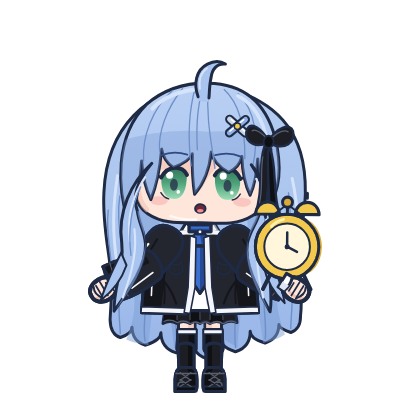
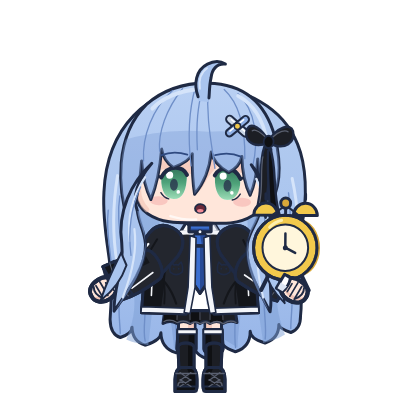
art: cập nhật trạng thái phòng Đợt 2, đề xuất cho điều hành (đặt note vào giữa tay), dựng lại ring
Claude-Session: https://claude.ai/code/session_01FvidWoeLaFPFz5tGxdbyt5

Changed region(s): [[0.57, 0.48, 0.81, 0.78]]

diff --git a/docs/rooms/art.md b/docs/rooms/art.md
@@ -23,7 +23,32 @@ Tóc dài màu xanh da trời nhạt có ánh, sợi tóc dựng trên đỉnh, 
 - `art/HANDOFF.md`: hướng dẫn họa sĩ người thật vẽ lại từng lớp đúng kích thước/pivot để thay thế.
 
 ## Trạng thái
-_(phòng cập nhật cuối mỗi lượt)_ — chưa bắt đầu.
+_Cập nhật 2026-10-15, hết lượt Đợt 2._
+
+**Đã xong**
+- Rig rối giấy vector: `art/rig/mochi/RIG-SPEC.md` (hệ toạ độ 400×400, mốc giải phẫu, màu, 19 xương, 24 lớp, khe đồ), `rig.json`, bộ phận `art/rig/mochi/parts/` (đầu, tóc sau/mái/mai/ahoge, kẹp X, nơ, thân, cổ, váy, tay 2 đốt + 5 kiểu bàn tay, chân 2 đốt + bốt, biến thể `hair_back.sit`), **26 bộ mặt** (18 khoá bảng gốc + blink, closed_happy, sleep, shout, wince, o, yawn, talk; mỗi khoá `.svg` + `.over.svg`), đạo cụ (chuông, mèo bông) và 17 hiệu ứng.
+- Trình dựng `tools/rig/` (chỉ Node + Electron offscreen có sẵn, không thêm thư viện): `build.js`, `pose.js`, `faces.js`, `sheet.js`, `svg2png.js`; action keyframe `tools/rig/actions/*.js` (inherit, tween, $ref mood). README đầy đủ.
+- Gói `assets/pet/mochi` (thay gói tạm 288×344): 10 action Đợt 2 — idle (normal/happy/tired/sad), walk (normal/tired), lifted, fall, land, pat_head (normal/happy), sleep, hold_note, ring, happy — 110 khung + 18 ảnh `faces/` 256×256. `validate.js`: OK, chỉ cảnh báo thiếu 13 action Đợt 3 (engine rơi về idle).
+- Duyệt: đầu/tóc 4 vòng, thân 2 vòng, mặt 1 vòng + tổng duyệt, walk/land/sleep/pat_head/ring 2 vòng, các action khác trưởng phòng duyệt từng khung ở 400px.
+- Chạy app thật dưới xvfb: gói tải OK, không lỗi console; ảnh `art/review/app_0*.png`.
+- `art/HANDOFF.md`: hướng dẫn họa sĩ người thật vẽ lại từng lớp (pivot, z, vùng bao, biến thể, cách nhúng PNG vào SVG).
+
+**Ảnh so sánh** (`art/review/`): `compare_full.png`, `compare_faces_18.png`, `compare_face_closeup.png`, `faces.png`, `contact_<action>.png` (10 action), `round*_head|body|faces|props.png` (các vòng sửa), `app_*.png`; ảnh tham chiếu cắt từ bảng gốc ở `art/review/ref/`.
+
+**Cách dựng lại**: `npm install` → `node tools/rig/build.js --faces` (≈3 giây, tự gọi xvfb-run nếu không có DISPLAY) → `node tools/anim/validate.js assets/pet/mochi` → `node tools/rig/sheet.js --contact <action>`. Xem nhanh tư thế: `node tools/rig/pose.js --out x.png --face happy --scale 2 --bg white`.
+
+**Đang dở / còn yếu**
+- Nhân vật nhìn chính diện (rig 2D): walk là bước tại chỗ nghiêng người, chưa có góc 3/4; tóc là mảng cứng xoay/co.
+- Tóc còn đối xứng hơn bảng gốc, thiếu lọn bay; áo khoác đen ít tương phản chi tiết (túi, khoá); huy hiệu mèo nhỏ.
+- fall: tay giơ ±120° (giơ cao hơn thì khuất sau tóc); chưa có `hair_back.up` (tóc hất lên) và cổ áo bị kéo ở lifted.
+- Gói PNG RGBA ≈12 MB (128 ảnh) — có thể nén bảng màu sau.
+- `hand_*.point`, `fx/question` chưa dùng.
+
+**Việc tiếp theo (Đợt 3)**: 13 action còn lại (sit, pat_body, wave, say, peek_left/right, startup, shutdown, sad, shy, angry, eat, work) bằng cùng rig — mỗi action một file `tools/rig/actions/*.js`; vẽ `hair_back.up`, `sidelock_*.up`, tay biến thể "grip"; thêm mood happy/tired cho hold_note? (không — nhắc lịch phải nhất quán); 8 bộ trang phục thành lớp `assets/wardrobe/<id>/` (thay torso/arms/skirt/legs theo khe `body`/`outer`).
+
+**Vướng mắc**: tờ note do app vẽ đang lệch khỏi tay (xem đề xuất 1).
 
 ## Đề xuất cho phòng điều hành
-_(trống)_
+1. **Gửi phòng core — đặt tờ note vào giữa hai tay** (đã xác minh trong `src/pet/pet.js` `placeNote()` và ảnh `art/review/app_03_giu_note.png`): hiện góc DƯỚI-TRÁI tờ note 120×110 đặt tại `pack.hand`, nên note lệch ~56 px phải / 62 px lên và che mặt bé. Theo ART-BRIEF 4.8, `hand` là **tâm** tờ note. Gói mochi mới thêm `pack.json.note = {anchor:"center", center:[200,262], size:[84,84]}` (px canvas). Đề nghị: nếu `pack.note.anchor === "center"` thì đặt tâm note tại `note.center` và co tờ note về `note.size × pack.scale` (hiện chỉ tiêu đề; nội dung đầy đủ đã có trong bong bóng). Gói tạm của core giữ cách cũ.
+2. Gửi core: gói `mochi` giờ là 400×400 (scale 0.6) còn gói tạm là 288×344 — khi engine lấy action thiếu từ `assets/pet/placeholder/`, cần căn theo anchor/scale riêng của từng gói (không giả định cùng canvas).
+3. `hitbox` gói mới: head [126,70,148,160], body [146,230,108,162] (khác số mẫu trong brief vì đầu chibi to hơn) — engine đọc từ pack.json nên không cần đổi code.
